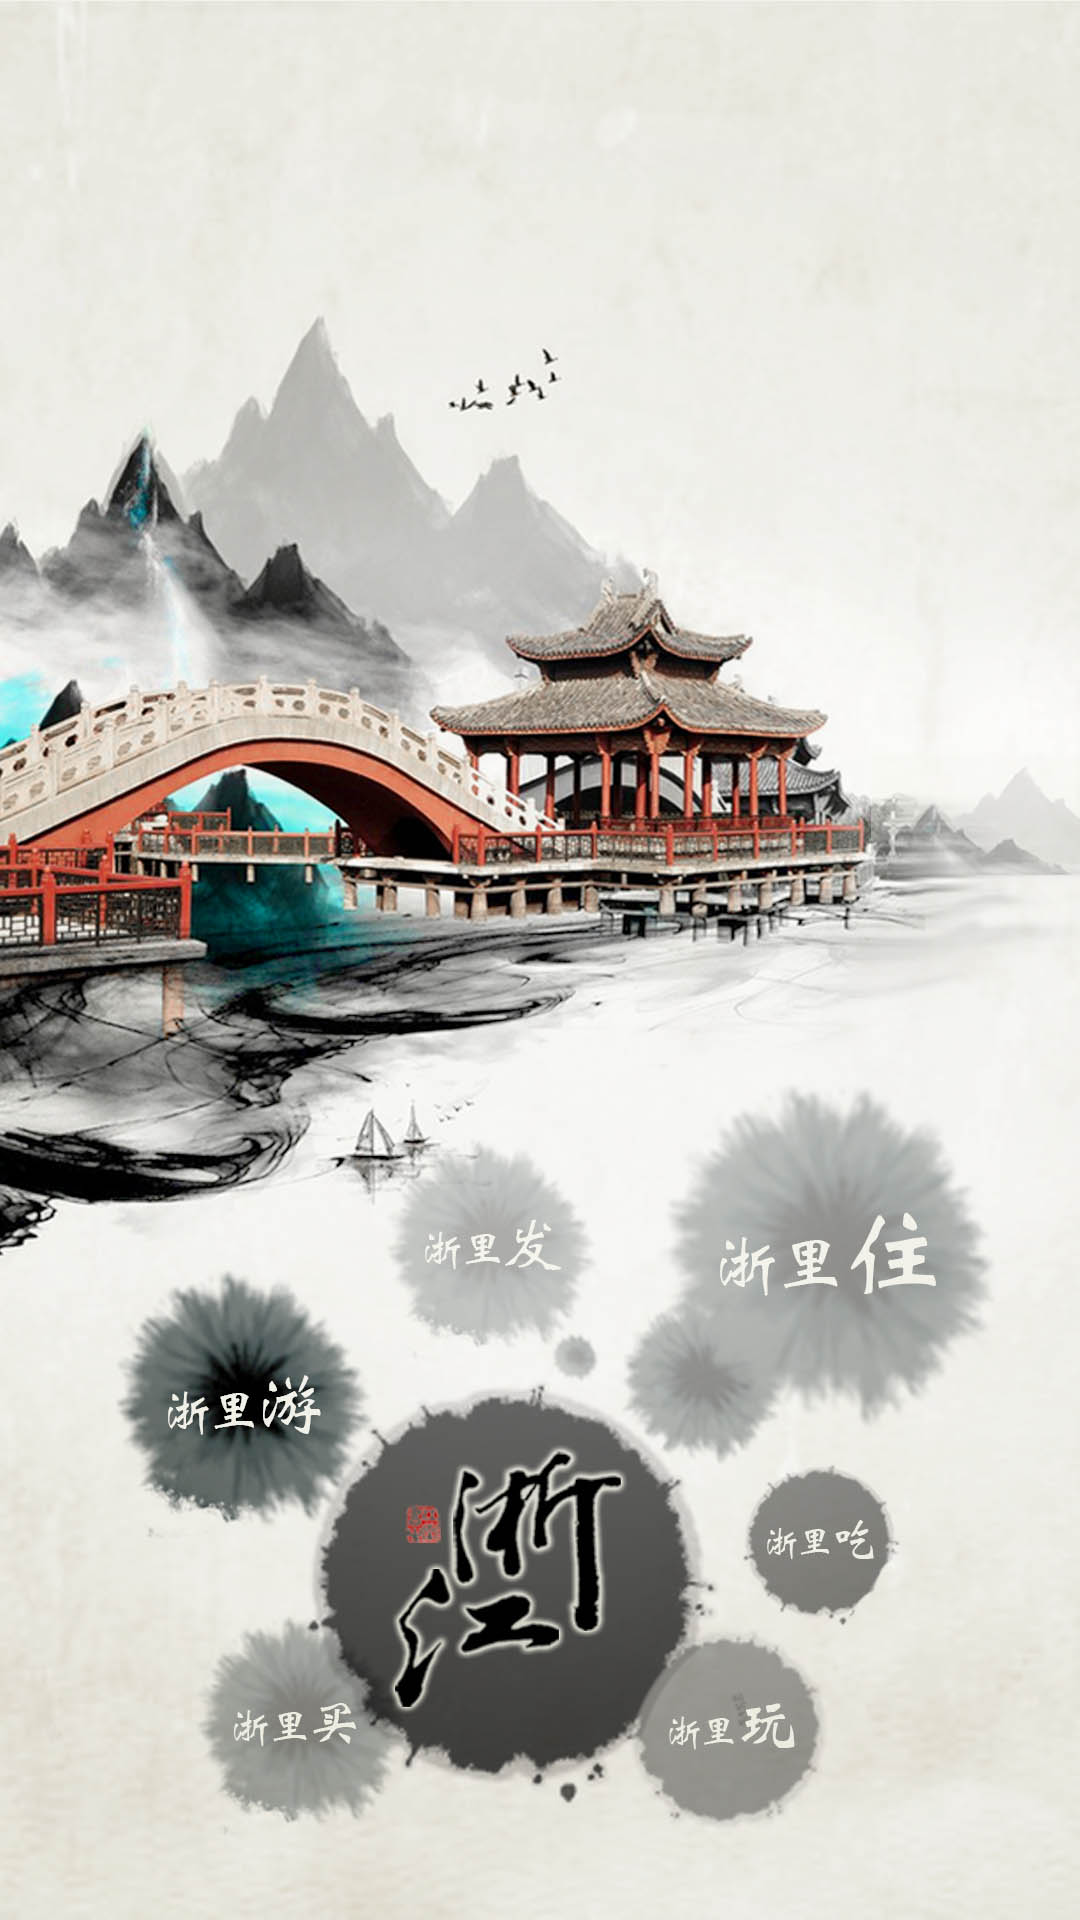
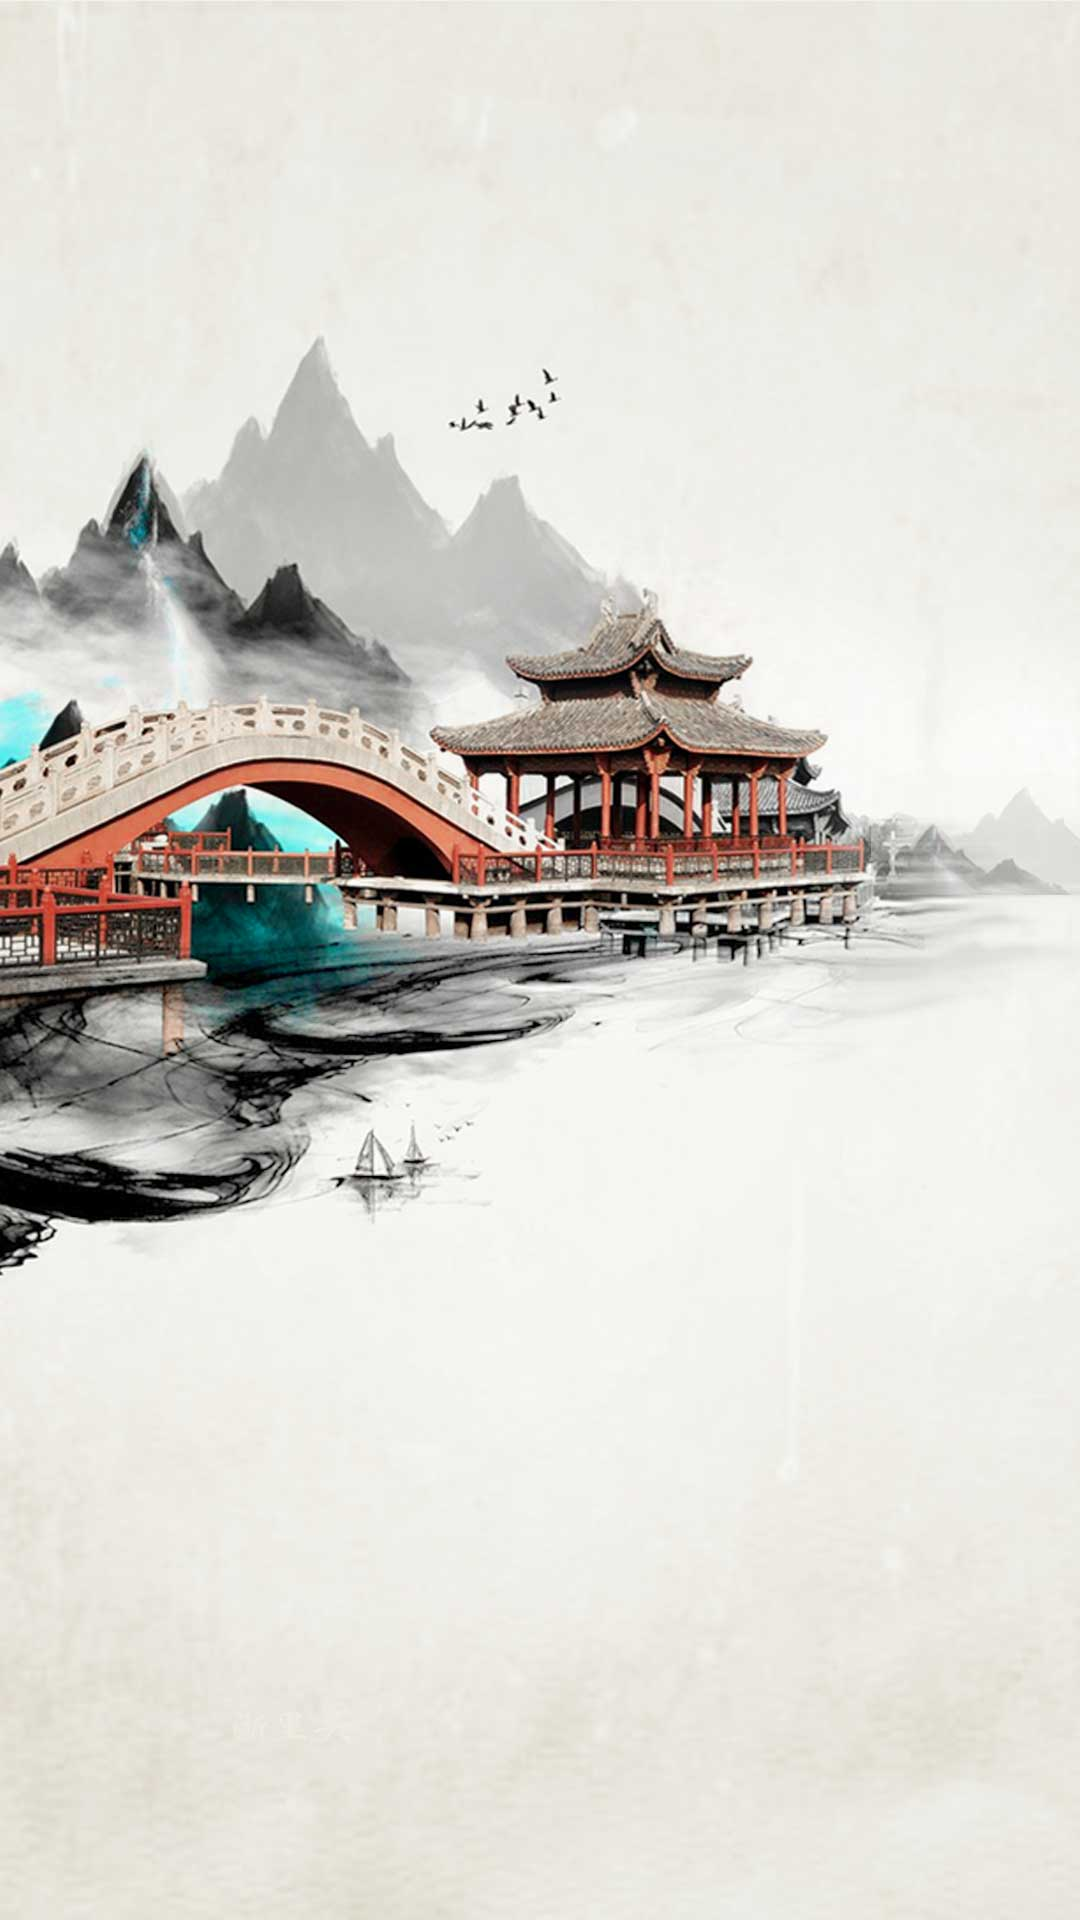
home page updates

diff --git a/css/style.css b/css/style.css
@@ -1,1 +1,1 @@
-body,ul{margin:0;padding:0}hr{border-color:#ccc;color:#ccc}.container{width:95%;margin:auto}.video-thumb{margin-bottom:15px;width:100%;min-height:140px;background:seagreen;position:relative;padding:0}.video-thumb .ui-icon-video{position:absolute;left:50%;top:50px;margin:10px -15px}.flat-card-list .flat-card{background:#fff;-webkit-box-shadow:0 0 8px #999;-moz-box-shadow:0 0 8px #999;box-shadow:0 0 8px #999;padding:15px;margin-bottom:15px}.flat-card-list .flat-card .name{margin:0 0 5px;color:#666}.flat-card-list .flat-card .des{font-size:12px;color:#999;margin:5px 0}.thumb-list .thumb-item{padding:5px 0;margin:0;clear:both}.thumb-list .thumb-item .thumbnail{width:20%;float:left}.thumb-list .thumb-item .info{padding:5px 10px;float:left;width:50%}.thumb-list .thumb-item .info .title{color:deepskyblue;font-size:14px;margin:0 0 3px}.thumb-list .thumb-item .info .location,.thumb-list .thumb-item .info .comment,.thumb-list .thumb-item .info .des{color:#999;font-size:10px;margin:2px 0}.thumb-list .thumb-item .price{float:left;width:23%;text-align:right}.thumb-list .thumb-item .price .number{font-size:30px;color:darkred}.thumb-list .thumb-item .price .appendix{font-size:10px;color:gray}.thumb-list .thumb-item .price .addon{font-size:10px;color:forestgreen}
+body,ul{margin:0;padding:0}hr{border-color:#ccc;color:#ccc}.container{width:95%;margin:auto}.video-thumb{margin-bottom:15px;width:100%;min-height:140px;background:seagreen;position:relative;padding:0}.video-thumb .ui-icon-video{position:absolute;left:50%;top:50px;margin:10px -15px}.flat-card-list .flat-card{background:#fff;-webkit-box-shadow:0 0 8px #999;-moz-box-shadow:0 0 8px #999;box-shadow:0 0 8px #999;padding:15px;margin-bottom:15px}.flat-card-list .flat-card .name{margin:0 0 5px;color:#666}.flat-card-list .flat-card .des{font-size:12px;color:#999;margin:5px 0}.thumb-list .thumb-item{padding:5px 0;margin:0;clear:both}.thumb-list .thumb-item .thumbnail{width:20%;float:left}.thumb-list .thumb-item .info{padding:5px 10px;float:left;width:50%}.thumb-list .thumb-item .info .title{color:deepskyblue;font-size:14px;margin:0 0 3px}.thumb-list .thumb-item .info .location,.thumb-list .thumb-item .info .comment,.thumb-list .thumb-item .info .des{color:#999;font-size:10px;margin:2px 0}.thumb-list .thumb-item .price{float:left;width:23%;text-align:right}.thumb-list .thumb-item .price .number{font-size:30px;color:darkred}.thumb-list .thumb-item .price .appendix{font-size:10px;color:gray}.thumb-list .thumb-item .price .addon{font-size:10px;color:forestgreen}.nav-dot{opacity:0;-webkit-transition:all 1s;-moz-transition:all 1s;-ms-transition:all 1s;-o-transition:all 1s;transition:all 1s;-webkit-transform:scale(0.2);-moz-transform:scale(0.2);-ms-transform:scale(0.2);-o-transform:scale(0.2);transform:scale(0.2)}.nav-dot.active{opacity:1;-webkit-transform:scale(1);-moz-transform:scale(1);-ms-transform:scale(1);-o-transform:scale(1);transform:scale(1)}.nav-center{opacity:0;-webkit-transition:all 1s;-moz-transition:all 1s;-ms-transition:all 1s;-o-transition:all 1s;transition:all 1s;-webkit-transform:scale(1.2);-moz-transform:scale(1.2);-ms-transform:scale(1.2);-o-transform:scale(1.2);transform:scale(1.2)}.nav-center.active{opacity:1;-webkit-transform:scale(1);-moz-transform:scale(1);-ms-transform:scale(1);-o-transform:scale(1);transform:scale(1)}

diff --git a/css/style.less b/css/style.less
@@ -91,3 +91,48 @@ hr {
     }
   }
 }
+
+.nav-dot {
+  opacity: 0;
+  -webkit-transition: all 1s;
+  -moz-transition: all 1s;
+  -ms-transition: all 1s;
+  -o-transition: all 1s;
+  transition: all 1s;
+  -webkit-transform: scale(0.2);
+  -moz-transform: scale(0.2);
+  -ms-transform: scale(0.2);
+  -o-transform: scale(0.2);
+  transform: scale(0.2);
+  &.active {
+    opacity: 1;
+    -webkit-transform: scale(1);
+    -moz-transform: scale(1);
+    -ms-transform: scale(1);
+    -o-transform: scale(1);
+    transform: scale(1);
+  }
+}
+
+.nav-center {
+  opacity: 0;
+  -webkit-transition: all 1s;
+  -moz-transition: all 1s;
+  -ms-transition: all 1s;
+  -o-transition: all 1s;
+  transition: all 1s;
+  -webkit-transform: scale(1.2);
+  -moz-transform: scale(1.2);
+  -ms-transform: scale(1.2);
+  -o-transform: scale(1.2);
+  transform: scale(1.2);
+  &.active {
+    opacity: 1;
+    -webkit-transform: scale(1);
+    -moz-transform: scale(1);
+    -ms-transform: scale(1);
+    -o-transform: scale(1);
+    transform: scale(1);
+  }
+}
+

diff --git a/application/views/home/index.php b/application/views/home/index.php
@@ -2,12 +2,36 @@
     <img src="<?= base_url('img/shzj.png') ?>" alt="诗画浙江" style="position: absolute; right: 10px; top: 5px; width: 120px;"/>
     <div id="home-ctrl-wrapper" style="position: absolute; left: 0; right: 0; bottom: 0; height: 300px;">
         <div id="home-ctrl" style="width: 100%; height: 100%; position: relative;">
-            <a href="<?= site_url("travel") ?>" style="position: absolute; bottom: 158px; left: 12%; width: 90px; height: 85px; opacity: 0;">浙里游</a>
-            <a href="<?= site_url("release") ?>" style="position: absolute; bottom: 219px; left: 36%; width: 78px; height: 79px; opacity: 0;">浙里发</a>
-            <a href="<?= site_url("stay") ?>" style="position: absolute; bottom: 194px; left: 62%; width: 120px; height: 125px; opacity: 0;">浙里住</a>
-            <a href="<?= site_url("buy") ?>" style="position: absolute; bottom: 38px; left: 19%; width: 78px; height: 85px; opacity: 0;">浙里买</a>
-            <a href="<?= site_url("taste") ?>" style="position: absolute; bottom: 116px; left: 69%; width: 58px; height: 60px; opacity: 0;">浙里吃</a>
-            <a href="<?= site_url("play") ?>" style="position: absolute; bottom: 38px; left: 59%; width: 70px; height: 73px; opacity: 0;">浙里玩</a>
+            <a class="nav-dot" href="<?= site_url("travel") ?>" style="position: absolute; bottom: 158px; left: 12%; width: 90px;">
+                <img src="<?= base_url('img/home/zly.png') ?>" alt="浙里游" style="width: 100%;"/>
+            </a>
+            <a class="nav-dot" href="<?= site_url("release") ?>" style="position: absolute; bottom: 219px; left: 36%; width: 78px; height: 79px;">
+                <img src="<?= base_url('img/home/zlf.png') ?>" alt="浙里发" style="width: 100%;"/>
+            </a>
+            <a class="nav-dot" href="<?= site_url("stay") ?>" style="position: absolute; bottom: 194px; left: 62%; width: 120px; height: 125px;">
+                <img src="<?= base_url('img/home/zlz.png') ?>" alt="浙里住" style="width: 100%;"/>
+            </a>
+            <a class="nav-dot" href="<?= site_url("buy") ?>" style="position: absolute; bottom: 38px; left: 19%; width: 78px; height: 85px;">
+                <img src="<?= base_url('img/home/zlm.png') ?>" alt="浙里买" style="width: 100%;"/>
+            </a>
+            <a class="nav-dot" href="<?= site_url("taste") ?>" style="position: absolute; bottom: 116px; left: 69%; width: 58px; height: 60px;">
+                <img src="<?= base_url('img/home/zlc.png') ?>" alt="浙里吃" style="width: 100%;"/>
+            </a>
+            <a class="nav-dot" href="<?= site_url("play") ?>" style="position: absolute; bottom: 38px; left: 59%; width: 70px; height: 73px; ">
+                <img src="<?= base_url('img/home/zlw.png') ?>" alt="浙里玩" style="width: 100%;"/>
+            </a>
+            <a class="nav-center" href="#" style="position: absolute; bottom: 60px; left: 28%; width: 160px;">
+                <img src="<?= base_url('img/home/zj.png') ?>" alt="浙里玩" style="width: 100%;"/>
+            </a>
         </div>
     </div>
 </div>
+<script>
+    setTimeout(function () {
+        var dots = $('.nav-dot');
+        for (var i = 0; i < dots.length; i++) {
+            $(dots[i]).addClass('active')
+        }
+        $('.nav-center').addClass('active')
+    }, 1000)
+</script>

diff --git a/application/views/welcome/index.php b/application/views/welcome/index.php
@@ -4,5 +4,5 @@
 <script type="text/javascript">
     setTimeout(function () {
         $('#goToHome').trigger('click');
-    }, 2000)
+    }, 3000)
 </script>
